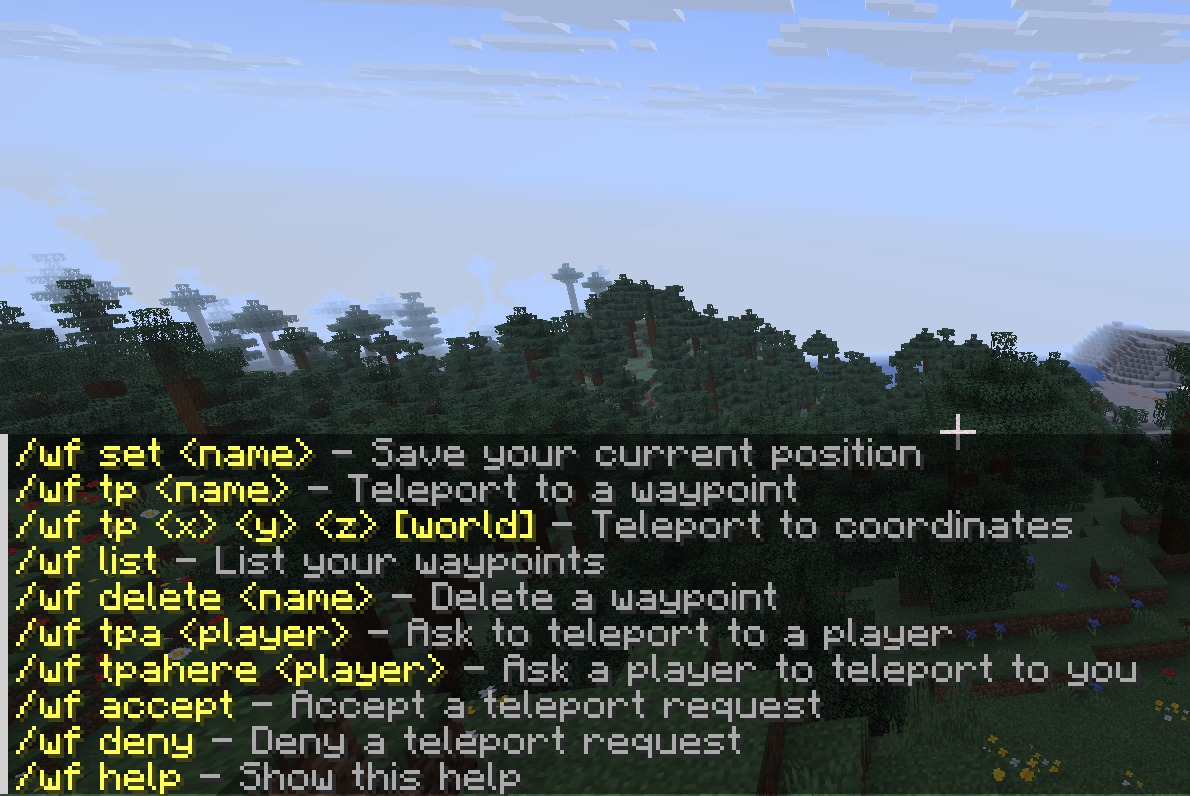
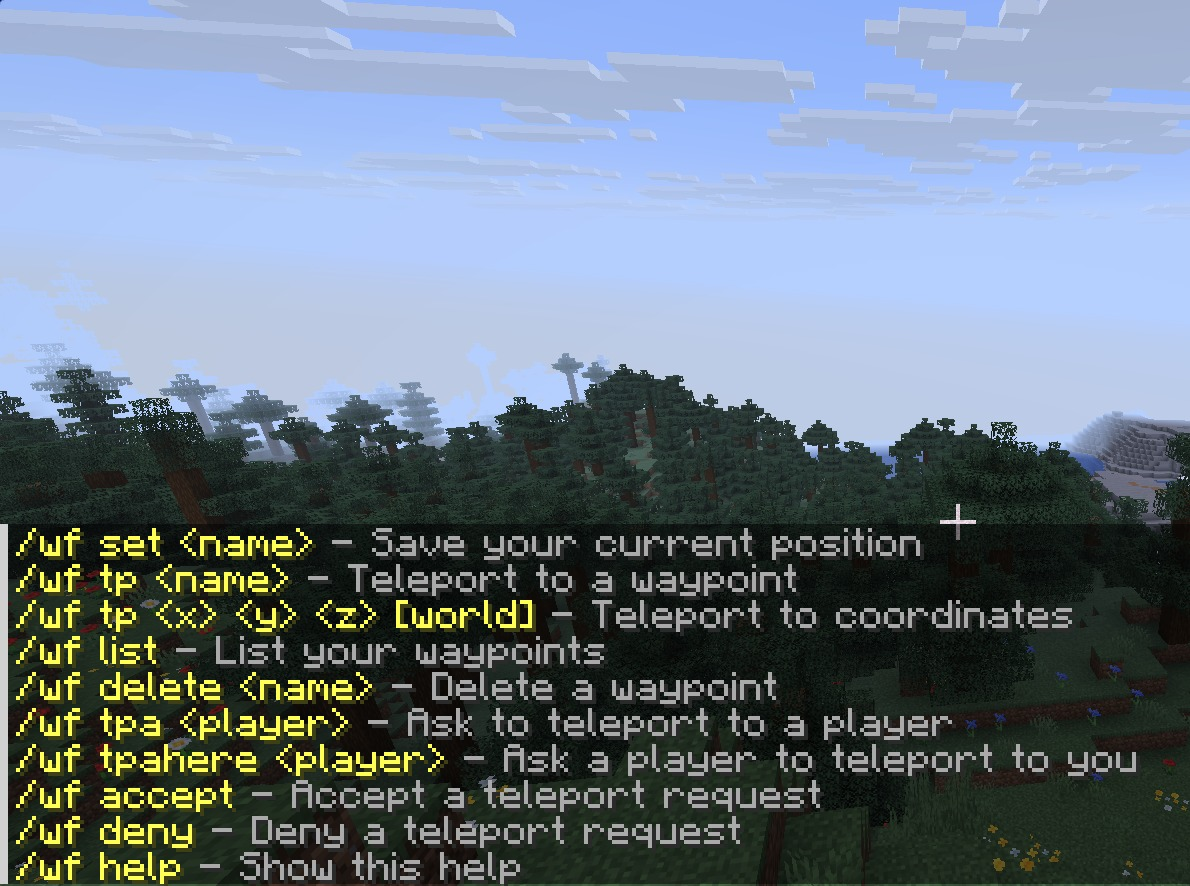
Anchor Wayfinder card image to the bottom left so the commands stay visible

diff --git a/src/content.config.ts b/src/content.config.ts
@@ -54,6 +54,8 @@ const baseFrontmatter = ({ image }: SchemaContext) =>
     heroImage: z.union([image(), z.string()]).optional(),
     /** Optional alt-text for the hero/featured image. */
     heroImageAlt: z.string().optional(),
+    /** Optional CSS object-position for the cropped card image (e.g. `left bottom`). */
+    heroImagePosition: z.string().optional(),
     /** Per-post override of SITE.showFeaturedImages (cards + hero). */
     showFeaturedImage: z.boolean().optional(),
     /** Per-post override of SITE.dynamicPostCardHeight on listing cards. */
